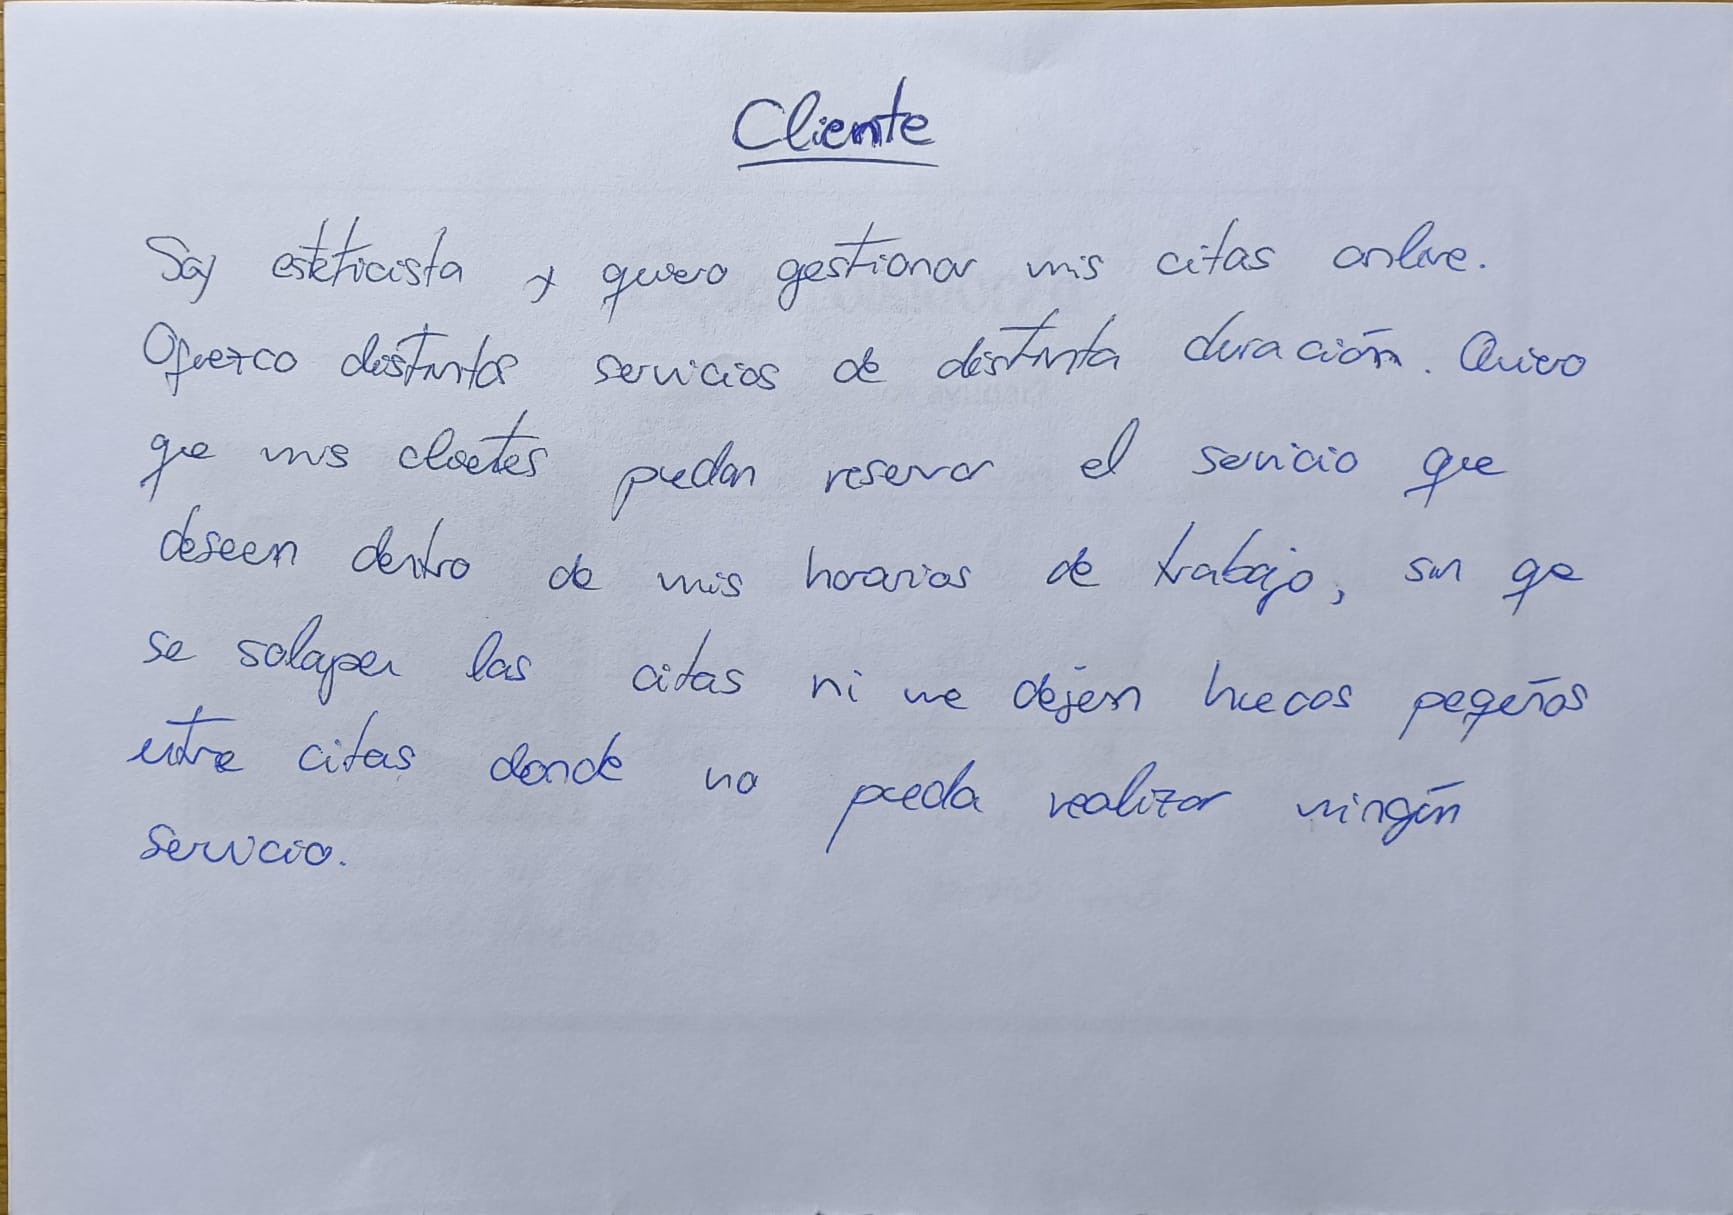
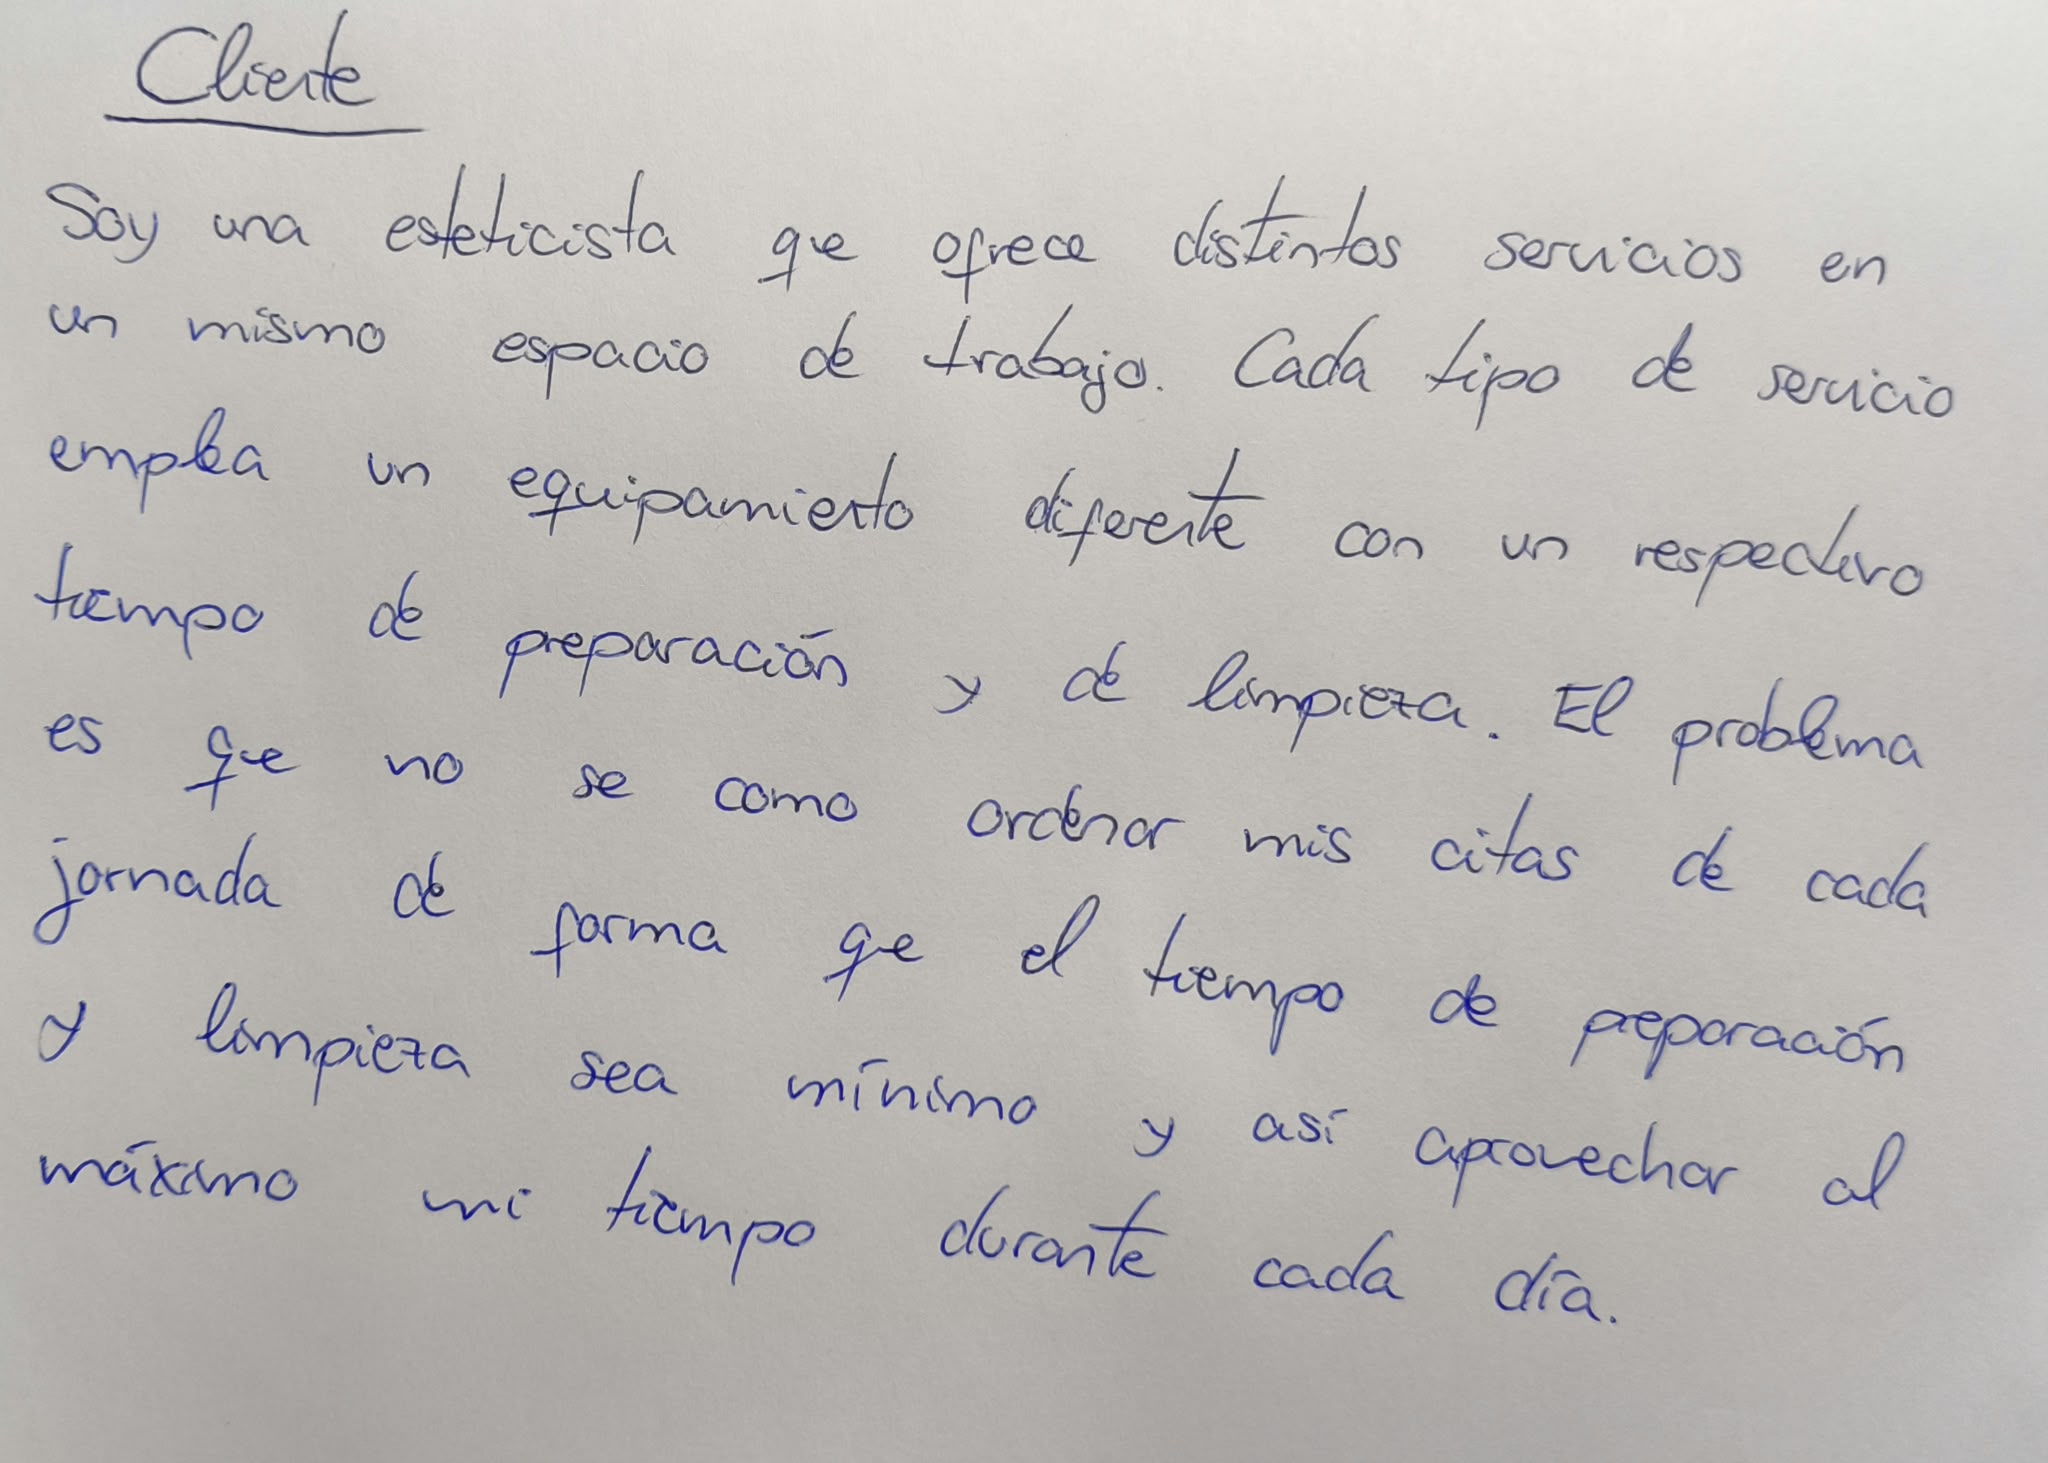
actualizo imagen juego de rol

diff --git a/README.md b/README.md
@@ -24,7 +24,7 @@ Los datos necesarios para la resolución del problema me los ha proporcionado mi
 # Justificación de despliegue en la nube
 Aunque mi madre desarrolla su actividad principalmente en su lugar de trabajo, la gestión de las citas no se realiza exclusivamente allí. En muchas ocasiones recibe y organiza las solicitudes de los clientes mientras se encuentra en casa o en cualquier otro lugar. Por este motivo, limitar el sistema a un ordenador situado en el lugar de trabajo dificultaría su utilización y obligaría a realizar la planificación de las citas desde un único dispositivo.
 
-Mediante el despliegue en la nube, el sistema podrá estar disponible de forma remota a través de Internet, permitiendo que mi madre pueda consultar las citas y realizar su planificación desde cualquier lugar, utilizando un ordenador, teléfono móvil u otro dispositivo.
+Mediante el despliegue en la nube, el sistema podrá estar disponible de forma remota a través de Internet, permitiendo que mi madre realizar su planificación desde cualquier lugar, utilizando un ordenador, teléfono móvil u otro dispositivo.
 
 # Configuración inicial
 Toda la configuración inicial se encuentra en [Configuracion.md](./Configuracion.md)
